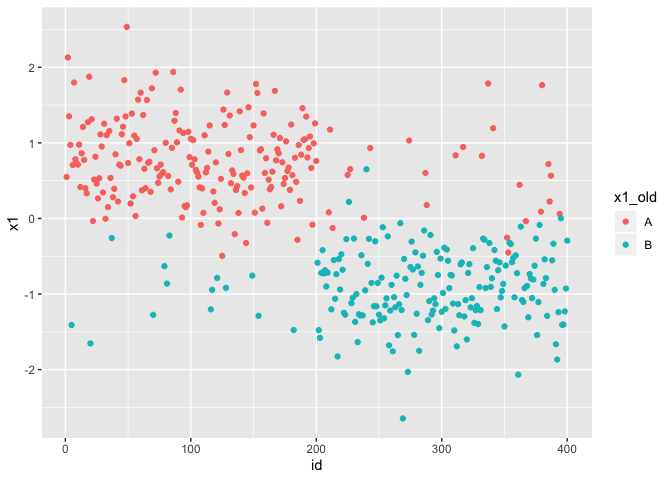
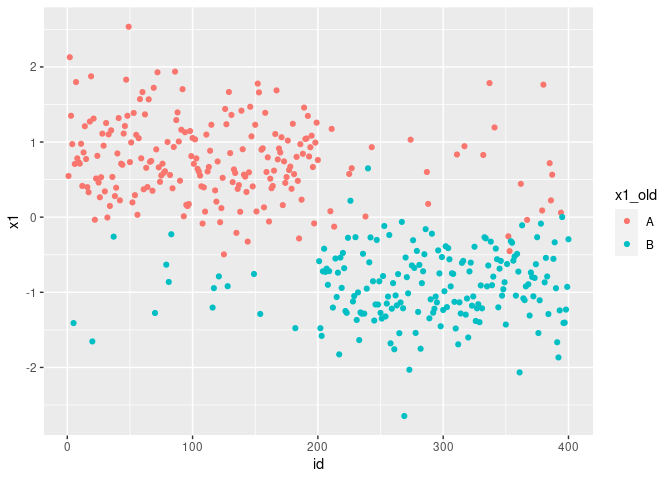
adjusting readme.rmd

diff --git a/docs/index.html b/docs/index.html
@@ -6,6 +6,12 @@
 <meta http-equiv="X-UA-Compatible" content="IE=edge">
 <meta name="viewport" content="width=device-width, initial-scale=1.0">
 <title>Transform Categorical data to Numerical  • NumericTransformation</title>
+<!-- favicons --><link rel="icon" type="image/png" sizes="16x16" href="favicon-16x16.png">
+<link rel="icon" type="image/png" sizes="32x32" href="favicon-32x32.png">
+<link rel="apple-touch-icon" type="image/png" sizes="180x180" href="apple-touch-icon.png">
+<link rel="apple-touch-icon" type="image/png" sizes="120x120" href="apple-touch-icon-120x120.png">
+<link rel="apple-touch-icon" type="image/png" sizes="76x76" href="apple-touch-icon-76x76.png">
+<link rel="apple-touch-icon" type="image/png" sizes="60x60" href="apple-touch-icon-60x60.png">
 <!-- jquery --><script src="https://cdnjs.cloudflare.com/ajax/libs/jquery/3.4.1/jquery.min.js" integrity="sha256-CSXorXvZcTkaix6Yvo6HppcZGetbYMGWSFlBw8HfCJo=" crossorigin="anonymous"></script><!-- Bootstrap --><link rel="stylesheet" href="https://cdnjs.cloudflare.com/ajax/libs/twitter-bootstrap/3.4.1/css/bootstrap.min.css" integrity="sha256-bZLfwXAP04zRMK2BjiO8iu9pf4FbLqX6zitd+tIvLhE=" crossorigin="anonymous">
 <script src="https://cdnjs.cloudflare.com/ajax/libs/twitter-bootstrap/3.4.1/js/bootstrap.min.js" integrity="sha256-nuL8/2cJ5NDSSwnKD8VqreErSWHtnEP9E7AySL+1ev4=" crossorigin="anonymous"></script><!-- bootstrap-toc --><link rel="stylesheet" href="bootstrap-toc.css">
 <script src="bootstrap-toc.js"></script><!-- Font Awesome icons --><link rel="stylesheet" href="https://cdnjs.cloudflare.com/ajax/libs/font-awesome/5.12.1/css/all.min.css" integrity="sha256-mmgLkCYLUQbXn0B1SRqzHar6dCnv9oZFPEC1g1cwlkk=" crossorigin="anonymous">
@@ -15,6 +21,7 @@
 <meta property="og:description" content="This package intends to convert categorical features into numerical ones. 
     This will help in employing algorithms and methods that only accept numerical data as input. 
     The main motivation for writing this package is to use in clustering assignments.">
+<meta property="og:image" content="/logo.png">
 <!-- mathjax --><script src="https://cdnjs.cloudflare.com/ajax/libs/mathjax/2.7.5/MathJax.js" integrity="sha256-nvJJv9wWKEm88qvoQl9ekL2J+k/RWIsaSScxxlsrv8k=" crossorigin="anonymous"></script><script src="https://cdnjs.cloudflare.com/ajax/libs/mathjax/2.7.5/config/TeX-AMS-MML_HTMLorMML.js" integrity="sha256-84DKXVJXs0/F8OTMzX4UR909+jtl4G7SPypPavF+GfA=" crossorigin="anonymous"></script><!--[if lt IE 9]>
 <script src="https://oss.maxcdn.com/html5shiv/3.7.3/html5shiv.min.js"></script>
 <script src="https://oss.maxcdn.com/respond/1.4.2/respond.min.js"></script>
@@ -62,13 +69,16 @@
       </header><div class="row">
   <div class="contents col-md-9">
 
-
-<p><a href="https://ci.appveyor.com/project/ranibasna/NumericalTransformation"><img src="https://ci.appveyor.com/api/projects/status/github/ranibasna/NumericalTransformation?branch=master&amp;svg=true" alt="AppVeyor build status"></a></p>
-<p><a href="https://codecov.io/gh/ranibasna/NumericalTransformation?branch=master"><img src="https://codecov.io/gh/ranibasna/NumericalTransformation/branch/master/graph/badge.svg" alt="Codecov test coverage"></a></p>
-<!-- README.md is generated from README.Rmd. Please edit that file -->
-<div id="numerictransformation" class="section level1">
+<div id="uft-" class="section level1">
 <div class="page-header"><h1 class="hasAnchor">
-<a href="#numerictransformation" class="anchor"></a>NumericTransformation</h1></div>
+<a href="#uft-" class="anchor"></a>UFT <img src="pkgdown/favicon/apple-touch-icon-180x180.png" align="right">
+</h1></div>
+
+<!-- README.md is generated from README.Rmd. Please edit that file -->
+</div>
+<div id="numerictransformation" class="section level1">
+<h1 class="hasAnchor">
+<a href="#numerictransformation" class="anchor"></a>NumericTransformation</h1>
 <p>his package intends to convert categorical features into numerical ones. This will help in employing algorithms and methods that only accept numerical data as input. The main motivation for writing this package is to use in clustering assignments.</p>
 <div id="installation" class="section level2">
 <h2 class="hasAnchor">
@@ -120,13 +130,13 @@
 
 <span class="va">x</span> <span class="op">&lt;-</span> <span class="fu"><a href="https://rdrr.io/r/base/data.frame.html">data.frame</a></span><span class="op">(</span><span class="va">x1</span>,<span class="va">x2</span>,<span class="va">x3</span>,<span class="va">x4</span><span class="op">)</span>
 <span class="fu"><a href="https://rdrr.io/r/base/summary.html">summary</a></span><span class="op">(</span><span class="va">x</span><span class="op">)</span>
-<span class="co">#&gt;  x1      x2            x3                 x4          </span>
-<span class="co">#&gt;  A:190   A:209   Min.   :-4.58379   Min.   :-4.65458  </span>
-<span class="co">#&gt;  B:210   B:191   1st Qu.:-1.50832   1st Qu.:-1.65347  </span>
-<span class="co">#&gt;                  Median :-0.14334   Median :-0.01602  </span>
-<span class="co">#&gt;                  Mean   :-0.03826   Mean   :-0.15829  </span>
-<span class="co">#&gt;                  3rd Qu.: 1.38379   3rd Qu.: 1.38572  </span>
-<span class="co">#&gt;                  Max.   : 4.46995   Max.   : 3.67834</span></code></pre></div>
+<span class="co">#&gt;  x1      x2            x3                  x4         </span>
+<span class="co">#&gt;  A:225   A:200   Min.   :-4.373129   Min.   :-5.4085  </span>
+<span class="co">#&gt;  B:175   B:200   1st Qu.:-1.579310   1st Qu.:-1.5653  </span>
+<span class="co">#&gt;                  Median :-0.019632   Median : 0.0709  </span>
+<span class="co">#&gt;                  Mean   : 0.002537   Mean   :-0.0500  </span>
+<span class="co">#&gt;                  3rd Qu.: 1.569295   3rd Qu.: 1.4859  </span>
+<span class="co">#&gt;                  Max.   : 5.088596   Max.   : 4.6016</span></code></pre></div>
 <div class="sourceCode" id="cb4"><pre class="downlit sourceCode r">
 <code class="sourceCode R"><span class="co"># converting the numerical data using UFT_func</span>
 <span class="va">x_converted_data</span> <span class="op">&lt;-</span> <span class="fu"><a href="reference/UFT_func.html">UFT_func</a></span><span class="op">(</span><span class="va">x</span>, Seed <span class="op">=</span> <span class="fl">22</span><span class="op">)</span>
@@ -134,23 +144,23 @@
 <span class="co"># bined with the rest of the data</span>
 <span class="va">x_converted_data_all</span> <span class="op">&lt;-</span> <span class="fu"><a href="reference/bined_converted_func.html">bined_converted_func</a></span><span class="op">(</span>converted_data <span class="op">=</span> <span class="va">x_converted_data</span>, original_data <span class="op">=</span> <span class="va">x</span><span class="op">)</span>
 <span class="fu"><a href="https://rdrr.io/r/utils/head.html">head</a></span><span class="op">(</span><span class="va">x_converted_data_all</span><span class="op">)</span>
-<span class="co">#&gt;           x1         x2         x3          x4</span>
-<span class="co">#&gt; 1  0.5538511  0.6232291 -3.9813210 -2.95670465</span>
-<span class="co">#&gt; 2  2.1274456  1.8260712 -1.7934829  0.01440232</span>
-<span class="co">#&gt; 3  1.3518329  1.2141733 -0.4465833 -1.61288821</span>
-<span class="co">#&gt; 4 -1.5920877 -0.6488359 -0.7923985 -2.29761087</span>
-<span class="co">#&gt; 5 -1.4077925 -1.3671888 -1.1548024 -2.25177055</span>
-<span class="co">#&gt; 6 -1.6532942 -1.0467830 -0.9435530 -3.67630148</span></code></pre></div>
+<span class="co">#&gt;          x1          x2         x3         x4</span>
+<span class="co">#&gt; 1 0.4696940  0.67097741 -2.2041043 -2.9961773</span>
+<span class="co">#&gt; 2 2.1556880  1.82202244 -2.0884854 -1.7169644</span>
+<span class="co">#&gt; 3 1.3246744 -0.02304501 -1.8149687 -1.4348445</span>
+<span class="co">#&gt; 4 0.9224804 -1.00875961  0.1847771 -0.2334640</span>
+<span class="co">#&gt; 5 0.6402326  1.23647429 -3.6329444 -1.9209723</span>
+<span class="co">#&gt; 6 1.8029492 -0.56878058  0.5659637  0.2912137</span></code></pre></div>
 <div class="sourceCode" id="cb5"><pre class="downlit sourceCode r">
 <code class="sourceCode R"><span class="va">x_converted_data_all</span> <span class="op">&lt;-</span> <span class="va">x_converted_data_all</span> <span class="op">%&gt;%</span> <span class="fu">dplyr</span><span class="fu">::</span><span class="fu"><a href="https://dplyr.tidyverse.org/reference/mutate.html">mutate</a></span><span class="op">(</span>id <span class="op">=</span> <span class="fu"><a href="https://dplyr.tidyverse.org/reference/ranking.html">row_number</a></span><span class="op">(</span><span class="op">)</span><span class="op">)</span>
 <span class="fu"><a href="https://rdrr.io/r/utils/head.html">head</a></span><span class="op">(</span><span class="va">x_converted_data_all</span><span class="op">)</span>
-<span class="co">#&gt;           x1         x2         x3          x4 id</span>
-<span class="co">#&gt; 1  0.5538511  0.6232291 -3.9813210 -2.95670465  1</span>
-<span class="co">#&gt; 2  2.1274456  1.8260712 -1.7934829  0.01440232  2</span>
-<span class="co">#&gt; 3  1.3518329  1.2141733 -0.4465833 -1.61288821  3</span>
-<span class="co">#&gt; 4 -1.5920877 -0.6488359 -0.7923985 -2.29761087  4</span>
-<span class="co">#&gt; 5 -1.4077925 -1.3671888 -1.1548024 -2.25177055  5</span>
-<span class="co">#&gt; 6 -1.6532942 -1.0467830 -0.9435530 -3.67630148  6</span></code></pre></div>
+<span class="co">#&gt;          x1          x2         x3         x4 id</span>
+<span class="co">#&gt; 1 0.4696940  0.67097741 -2.2041043 -2.9961773  1</span>
+<span class="co">#&gt; 2 2.1556880  1.82202244 -2.0884854 -1.7169644  2</span>
+<span class="co">#&gt; 3 1.3246744 -0.02304501 -1.8149687 -1.4348445  3</span>
+<span class="co">#&gt; 4 0.9224804 -1.00875961  0.1847771 -0.2334640  4</span>
+<span class="co">#&gt; 5 0.6402326  1.23647429 -3.6329444 -1.9209723  5</span>
+<span class="co">#&gt; 6 1.8029492 -0.56878058  0.5659637  0.2912137  6</span></code></pre></div>
 <div class="sourceCode" id="cb6"><pre class="downlit sourceCode r">
 <code class="sourceCode R"><span class="co"># plotiing</span>
 <span class="co"># adding old non-numerical features</span>
@@ -230,6 +240,8 @@
 <h2>Dev status</h2>
 <ul class="list-unstyled">
 <li><a href="https://travis-ci.com/ranibasna/NumericalTransformation"><img src="https://travis-ci.com/ranibasna/NumericalTransformation.svg?branch=master" alt="Travis build status"></a></li>
+<li><a href="https://ci.appveyor.com/project/ranibasna/NumericalTransformation"><img src="https://ci.appveyor.com/api/projects/status/github/ranibasna/NumericalTransformation?branch=master&amp;svg=true" alt="AppVeyor build status"></a></li>
+<li><a href="https://codecov.io/gh/ranibasna/NumericalTransformation?branch=master"><img src="https://codecov.io/gh/ranibasna/NumericalTransformation/branch/master/graph/badge.svg" alt="Codecov test coverage"></a></li>
 </ul>
 </div>
 </div>

diff --git a/docs/reference/Prepare_data.html b/docs/reference/Prepare_data.html
@@ -8,6 +8,13 @@
 
 <title>Title Prepare the data for the UFT_Func. Mainly, it converts factor and character type data to integer format. — Prepare_data • NumericTransformation</title>
 
+<!-- favicons -->
+<link rel="icon" type="image/png" sizes="16x16" href="../favicon-16x16.png">
+<link rel="icon" type="image/png" sizes="32x32" href="../favicon-32x32.png">
+<link rel="apple-touch-icon" type="image/png" sizes="180x180" href="../apple-touch-icon.png" />
+<link rel="apple-touch-icon" type="image/png" sizes="120x120" href="../apple-touch-icon-120x120.png" />
+<link rel="apple-touch-icon" type="image/png" sizes="76x76" href="../apple-touch-icon-76x76.png" />
+<link rel="apple-touch-icon" type="image/png" sizes="60x60" href="../apple-touch-icon-60x60.png" />
 
 <!-- jquery -->
 <script src="https://cdnjs.cloudflare.com/ajax/libs/jquery/3.4.1/jquery.min.js" integrity="sha256-CSXorXvZcTkaix6Yvo6HppcZGetbYMGWSFlBw8HfCJo=" crossorigin="anonymous"></script>
@@ -41,6 +48,7 @@
 
 <meta property="og:title" content="Title Prepare the data for the UFT_Func. Mainly, it converts factor and character type data to integer format. — Prepare_data" />
 <meta property="og:description" content="Title Prepare the data for the UFT_Func. Mainly, it converts factor and character type data to integer format." />
+<meta property="og:image" content="/logo.png" />
 
 
 

diff --git a/docs/reference/Data_Classes_Split.html b/docs/reference/Data_Classes_Split.html
@@ -8,6 +8,13 @@
 
 <title>This is s small function the split the data according to thier types (numerica, integers or factors) — Data_Classes_Split • NumericTransformation</title>
 
+<!-- favicons -->
+<link rel="icon" type="image/png" sizes="16x16" href="../favicon-16x16.png">
+<link rel="icon" type="image/png" sizes="32x32" href="../favicon-32x32.png">
+<link rel="apple-touch-icon" type="image/png" sizes="180x180" href="../apple-touch-icon.png" />
+<link rel="apple-touch-icon" type="image/png" sizes="120x120" href="../apple-touch-icon-120x120.png" />
+<link rel="apple-touch-icon" type="image/png" sizes="76x76" href="../apple-touch-icon-76x76.png" />
+<link rel="apple-touch-icon" type="image/png" sizes="60x60" href="../apple-touch-icon-60x60.png" />
 
 <!-- jquery -->
 <script src="https://cdnjs.cloudflare.com/ajax/libs/jquery/3.4.1/jquery.min.js" integrity="sha256-CSXorXvZcTkaix6Yvo6HppcZGetbYMGWSFlBw8HfCJo=" crossorigin="anonymous"></script>
@@ -41,6 +48,7 @@
 
 <meta property="og:title" content="This is s small function the split the data according to thier types (numerica, integers or factors) — Data_Classes_Split" />
 <meta property="og:description" content="This is s small function the split the data according to thier types (numerica, integers or factors)" />
+<meta property="og:image" content="/logo.png" />
 
 
 

diff --git a/docs/reference/bined_converted_func.html b/docs/reference/bined_converted_func.html
@@ -8,6 +8,13 @@
 
 <title>Title This is small function to output the final data as numerical type — bined_converted_func • NumericTransformation</title>
 
+<!-- favicons -->
+<link rel="icon" type="image/png" sizes="16x16" href="../favicon-16x16.png">
+<link rel="icon" type="image/png" sizes="32x32" href="../favicon-32x32.png">
+<link rel="apple-touch-icon" type="image/png" sizes="180x180" href="../apple-touch-icon.png" />
+<link rel="apple-touch-icon" type="image/png" sizes="120x120" href="../apple-touch-icon-120x120.png" />
+<link rel="apple-touch-icon" type="image/png" sizes="76x76" href="../apple-touch-icon-76x76.png" />
+<link rel="apple-touch-icon" type="image/png" sizes="60x60" href="../apple-touch-icon-60x60.png" />
 
 <!-- jquery -->
 <script src="https://cdnjs.cloudflare.com/ajax/libs/jquery/3.4.1/jquery.min.js" integrity="sha256-CSXorXvZcTkaix6Yvo6HppcZGetbYMGWSFlBw8HfCJo=" crossorigin="anonymous"></script>
@@ -41,6 +48,7 @@
 
 <meta property="og:title" content="Title This is small function to output the final data as numerical type — bined_converted_func" />
 <meta property="og:description" content="Title This is small function to output the final data as numerical type" />
+<meta property="og:image" content="/logo.png" />
 
 
 

diff --git a/docs/reference/UFT_func.html b/docs/reference/UFT_func.html
@@ -8,6 +8,13 @@
 
 <title>Title Unsupervised Feature Transformation — UFT_func • NumericTransformation</title>
 
+<!-- favicons -->
+<link rel="icon" type="image/png" sizes="16x16" href="../favicon-16x16.png">
+<link rel="icon" type="image/png" sizes="32x32" href="../favicon-32x32.png">
+<link rel="apple-touch-icon" type="image/png" sizes="180x180" href="../apple-touch-icon.png" />
+<link rel="apple-touch-icon" type="image/png" sizes="120x120" href="../apple-touch-icon-120x120.png" />
+<link rel="apple-touch-icon" type="image/png" sizes="76x76" href="../apple-touch-icon-76x76.png" />
+<link rel="apple-touch-icon" type="image/png" sizes="60x60" href="../apple-touch-icon-60x60.png" />
 
 <!-- jquery -->
 <script src="https://cdnjs.cloudflare.com/ajax/libs/jquery/3.4.1/jquery.min.js" integrity="sha256-CSXorXvZcTkaix6Yvo6HppcZGetbYMGWSFlBw8HfCJo=" crossorigin="anonymous"></script>
@@ -41,6 +48,7 @@
 
 <meta property="og:title" content="Title Unsupervised Feature Transformation — UFT_func" />
 <meta property="og:description" content="Title Unsupervised Feature Transformation" />
+<meta property="og:image" content="/logo.png" />
 
 
 

diff --git a/docs/reference/index.html b/docs/reference/index.html
@@ -8,6 +8,13 @@
 
 <title>Function reference • NumericTransformation</title>
 
+<!-- favicons -->
+<link rel="icon" type="image/png" sizes="16x16" href="../favicon-16x16.png">
+<link rel="icon" type="image/png" sizes="32x32" href="../favicon-32x32.png">
+<link rel="apple-touch-icon" type="image/png" sizes="180x180" href="../apple-touch-icon.png" />
+<link rel="apple-touch-icon" type="image/png" sizes="120x120" href="../apple-touch-icon-120x120.png" />
+<link rel="apple-touch-icon" type="image/png" sizes="76x76" href="../apple-touch-icon-76x76.png" />
+<link rel="apple-touch-icon" type="image/png" sizes="60x60" href="../apple-touch-icon-60x60.png" />
 
 <!-- jquery -->
 <script src="https://cdnjs.cloudflare.com/ajax/libs/jquery/3.4.1/jquery.min.js" integrity="sha256-CSXorXvZcTkaix6Yvo6HppcZGetbYMGWSFlBw8HfCJo=" crossorigin="anonymous"></script>
@@ -40,6 +47,7 @@
 
 
 <meta property="og:title" content="Function reference" />
+<meta property="og:image" content="/logo.png" />
 
 
 

diff --git a/docs/404.html b/docs/404.html
@@ -8,6 +8,13 @@
 
 <title>Page not found (404) • NumericTransformation</title>
 
+<!-- favicons -->
+<link rel="icon" type="image/png" sizes="16x16" href="favicon-16x16.png">
+<link rel="icon" type="image/png" sizes="32x32" href="favicon-32x32.png">
+<link rel="apple-touch-icon" type="image/png" sizes="180x180" href="apple-touch-icon.png" />
+<link rel="apple-touch-icon" type="image/png" sizes="120x120" href="apple-touch-icon-120x120.png" />
+<link rel="apple-touch-icon" type="image/png" sizes="76x76" href="apple-touch-icon-76x76.png" />
+<link rel="apple-touch-icon" type="image/png" sizes="60x60" href="apple-touch-icon-60x60.png" />
 
 <!-- jquery -->
 <script src="https://cdnjs.cloudflare.com/ajax/libs/jquery/3.4.1/jquery.min.js" integrity="sha256-CSXorXvZcTkaix6Yvo6HppcZGetbYMGWSFlBw8HfCJo=" crossorigin="anonymous"></script>
@@ -40,6 +47,7 @@
 
 
 <meta property="og:title" content="Page not found (404)" />
+<meta property="og:image" content="/logo.png" />
 
 
 

diff --git a/docs/authors.html b/docs/authors.html
@@ -8,6 +8,13 @@
 
 <title>Authors • NumericTransformation</title>
 
+<!-- favicons -->
+<link rel="icon" type="image/png" sizes="16x16" href="favicon-16x16.png">
+<link rel="icon" type="image/png" sizes="32x32" href="favicon-32x32.png">
+<link rel="apple-touch-icon" type="image/png" sizes="180x180" href="apple-touch-icon.png" />
+<link rel="apple-touch-icon" type="image/png" sizes="120x120" href="apple-touch-icon-120x120.png" />
+<link rel="apple-touch-icon" type="image/png" sizes="76x76" href="apple-touch-icon-76x76.png" />
+<link rel="apple-touch-icon" type="image/png" sizes="60x60" href="apple-touch-icon-60x60.png" />
 
 <!-- jquery -->
 <script src="https://cdnjs.cloudflare.com/ajax/libs/jquery/3.4.1/jquery.min.js" integrity="sha256-CSXorXvZcTkaix6Yvo6HppcZGetbYMGWSFlBw8HfCJo=" crossorigin="anonymous"></script>
@@ -40,6 +47,7 @@
 
 
 <meta property="og:title" content="Authors" />
+<meta property="og:image" content="/logo.png" />
 
 
 

diff --git a/README.md b/README.md
@@ -1,10 +1,10 @@
 
+# UFT <img src="pkgdown/favicon/apple-touch-icon-180x180.png" align="right" />
+
 [![Travis build
 status](https://travis-ci.com/ranibasna/NumericalTransformation.svg?branch=master)](https://travis-ci.com/ranibasna/NumericalTransformation)
-
 [![AppVeyor build
 status](https://ci.appveyor.com/api/projects/status/github/ranibasna/NumericalTransformation?branch=master&svg=true)](https://ci.appveyor.com/project/ranibasna/NumericalTransformation)
-
 [![Codecov test
 coverage](https://codecov.io/gh/ranibasna/NumericalTransformation/branch/master/graph/badge.svg)](https://codecov.io/gh/ranibasna/NumericalTransformation?branch=master)
 
@@ -21,12 +21,10 @@ to use in clustering assignments.
 
 <!-- You can install the released version of NumericTransformation from [CRAN](https://CRAN.R-project.org) with: -->
 
-–\>
+–&gt;
 
 <!-- ``` r -->
-
 <!-- install.packages("NumericTransformation") -->
-
 <!-- ``` -->
 
 You can install the development version from
@@ -77,13 +75,13 @@ x4 <- c(rnorm(n, mean = -muk), rnorm(n, mean = muk), rnorm(n, mean = -muk), rnor
 
 x <- data.frame(x1,x2,x3,x4)
 summary(x)
-#>  x1      x2            x3                 x4          
-#>  A:190   A:209   Min.   :-4.58379   Min.   :-4.65458  
-#>  B:210   B:191   1st Qu.:-1.50832   1st Qu.:-1.65347  
-#>                  Median :-0.14334   Median :-0.01602  
-#>                  Mean   :-0.03826   Mean   :-0.15829  
-#>                  3rd Qu.: 1.38379   3rd Qu.: 1.38572  
-#>                  Max.   : 4.46995   Max.   : 3.67834
+#>  x1      x2            x3                  x4         
+#>  A:225   A:200   Min.   :-4.373129   Min.   :-5.4085  
+#>  B:175   B:200   1st Qu.:-1.579310   1st Qu.:-1.5653  
+#>                  Median :-0.019632   Median : 0.0709  
+#>                  Mean   : 0.002537   Mean   :-0.0500  
+#>                  3rd Qu.: 1.569295   3rd Qu.: 1.4859  
+#>                  Max.   : 5.088596   Max.   : 4.6016
 ```
 
 ``` r
@@ -93,25 +91,25 @@ x_converted_data <- UFT_func(x, Seed = 22)
 # bined with the rest of the data
 x_converted_data_all <- bined_converted_func(converted_data = x_converted_data, original_data = x)
 head(x_converted_data_all)
-#>           x1         x2         x3          x4
-#> 1  0.5538511  0.6232291 -3.9813210 -2.95670465
-#> 2  2.1274456  1.8260712 -1.7934829  0.01440232
-#> 3  1.3518329  1.2141733 -0.4465833 -1.61288821
-#> 4 -1.5920877 -0.6488359 -0.7923985 -2.29761087
-#> 5 -1.4077925 -1.3671888 -1.1548024 -2.25177055
-#> 6 -1.6532942 -1.0467830 -0.9435530 -3.67630148
+#>          x1          x2         x3         x4
+#> 1 0.4696940  0.67097741 -2.2041043 -2.9961773
+#> 2 2.1556880  1.82202244 -2.0884854 -1.7169644
+#> 3 1.3246744 -0.02304501 -1.8149687 -1.4348445
+#> 4 0.9224804 -1.00875961  0.1847771 -0.2334640
+#> 5 0.6402326  1.23647429 -3.6329444 -1.9209723
+#> 6 1.8029492 -0.56878058  0.5659637  0.2912137
 ```
 
 ``` r
 x_converted_data_all <- x_converted_data_all %>% dplyr::mutate(id = row_number())
 head(x_converted_data_all)
-#>           x1         x2         x3          x4 id
-#> 1  0.5538511  0.6232291 -3.9813210 -2.95670465  1
-#> 2  2.1274456  1.8260712 -1.7934829  0.01440232  2
-#> 3  1.3518329  1.2141733 -0.4465833 -1.61288821  3
-#> 4 -1.5920877 -0.6488359 -0.7923985 -2.29761087  4
-#> 5 -1.4077925 -1.3671888 -1.1548024 -2.25177055  5
-#> 6 -1.6532942 -1.0467830 -0.9435530 -3.67630148  6
+#>          x1          x2         x3         x4 id
+#> 1 0.4696940  0.67097741 -2.2041043 -2.9961773  1
+#> 2 2.1556880  1.82202244 -2.0884854 -1.7169644  2
+#> 3 1.3246744 -0.02304501 -1.8149687 -1.4348445  3
+#> 4 0.9224804 -1.00875961  0.1847771 -0.2334640  4
+#> 5 0.6402326  1.23647429 -3.6329444 -1.9209723  5
+#> 6 1.8029492 -0.56878058  0.5659637  0.2912137  6
 ```
 
 ``` r
